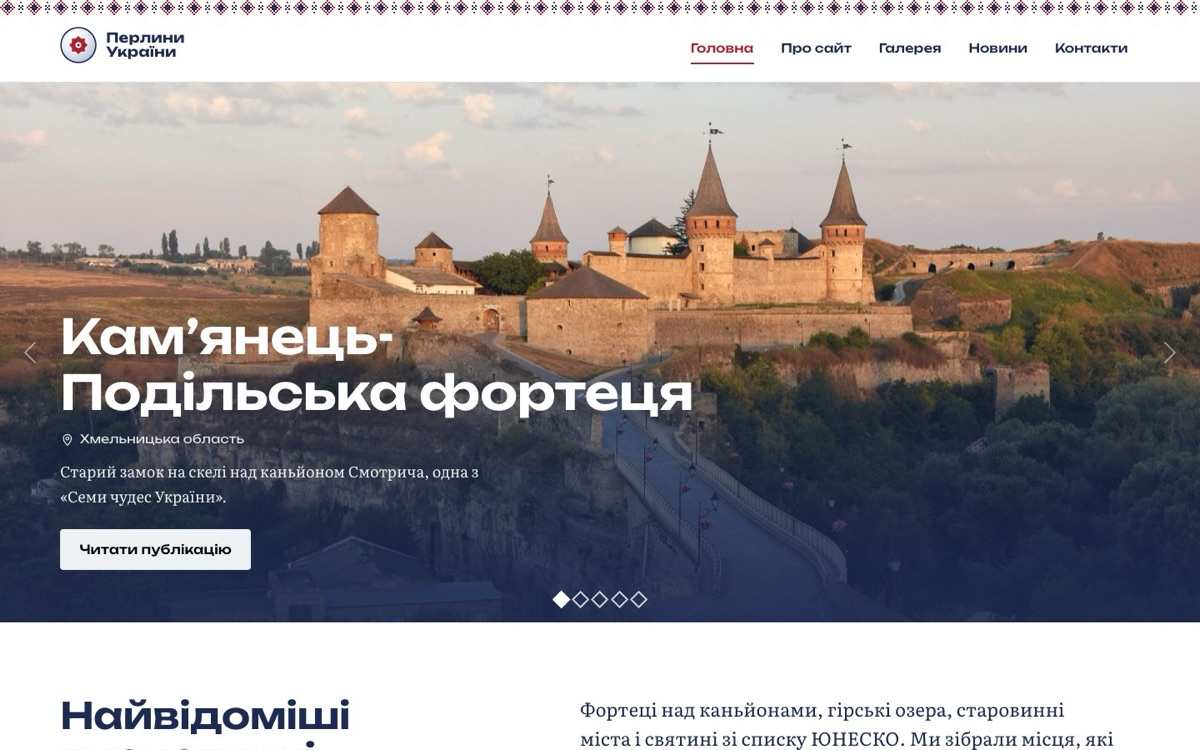
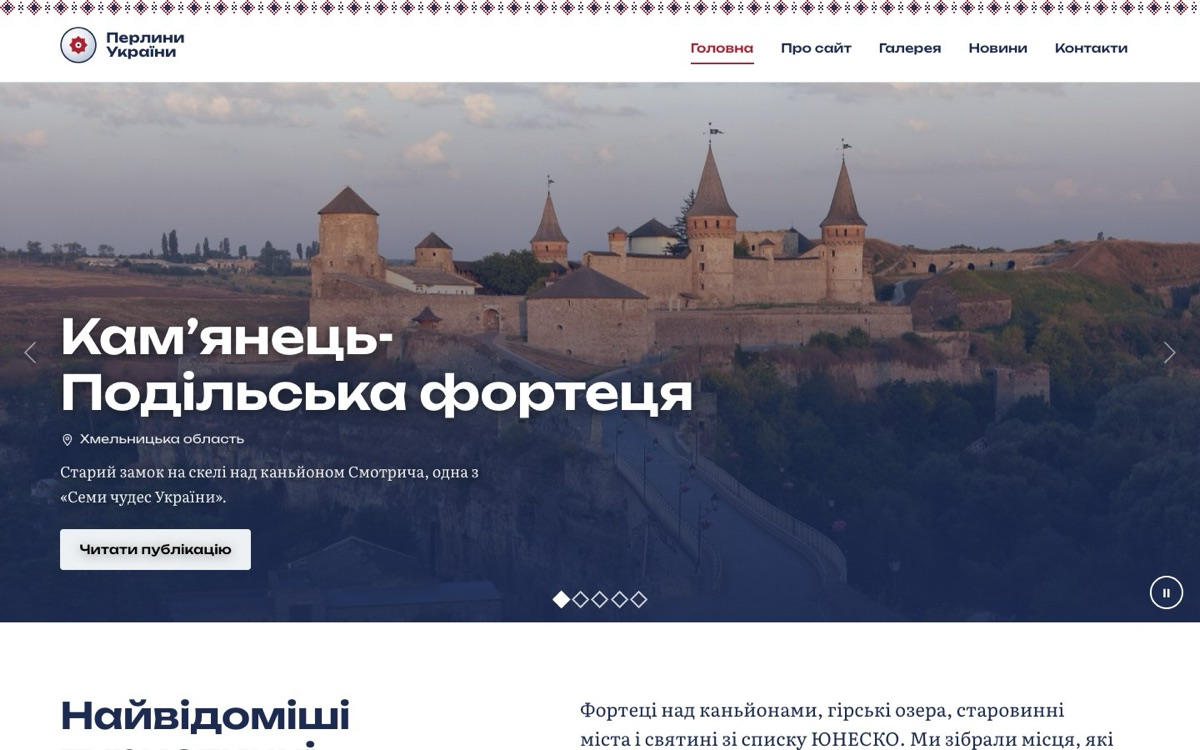
docs: план і скриншот README оновлено після публікації на GitHub Pages

diff --git a/docs/superpowers/plans/2026-10-24-perlyny-ukrainy.md b/docs/superpowers/plans/2026-10-24-perlyny-ukrainy.md
@@ -321,6 +321,9 @@ export default $;
 - [ ] `render.yaml`: web-сервіс `runtime: node`, `plan: free`, `buildCommand: npm ci --include=dev && npm run build`, `startCommand: npm start`, `healthCheckPath: /api/health`, `NODE_VERSION=22`.
 - [ ] `README.md`: опис, функції, технології, запуск (`npm install`, `npm run dev`), тести, API, деплой на Render з GitHub, джерела фото.
 - [ ] Перевірка продакшен-збірки локально: `npm run build && PORT=4000 npm start`, відкрити `http://localhost:4000/news/1` напряму. Коміт.
+- [ ] Демоверсія на GitHub Pages (додано на прохання користувача): режим збирання `pages` (`npm run build:pages`) — `base` `/perlyny-ukrainy/`, `basename` маршрутизатора `BASE_URL`, шляхи до фото через `assetUrl`, експорт `server/data/*.json` у `dist/api/` (`scripts/export-static-api.mjs`), `dist/404.html` для прямих посилань; вибірка новин і фото — спільний модуль `shared/newsQuery.js`; клієнт `staticApi` без сервера; форма в демоверсії лише перевіряє дані.
+- [ ] Робочий процес `.github/workflows/pages.yml`: `npm ci` → `npm test` → `npm run build:pages` → `upload-pages-artifact` → `deploy-pages`.
+- [ ] Репозиторій: `gh repo create kimisu1/perlyny-ukrainy --public`, увімкнути Pages з джерелом GitHub Actions (`gh api -X POST repos/kimisu1/perlyny-ukrainy/pages -f build_type=workflow`), `git push`; перевірити `https://kimisu1.github.io/perlyny-ukrainy/` і пряме посилання `/news/3`.
 
 ### Задача 15: Пояснювальна записка
 
